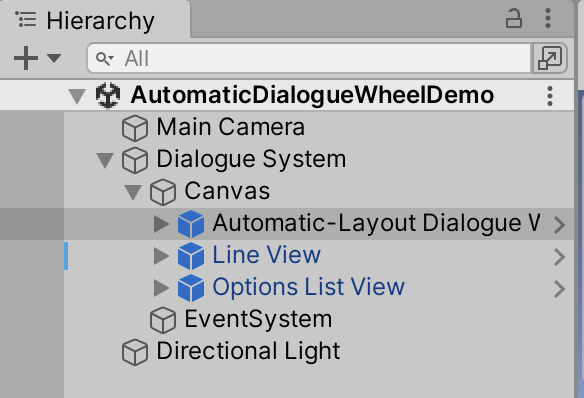
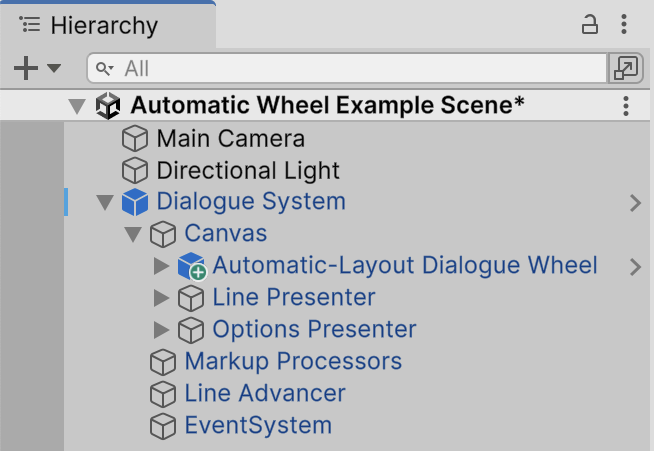
updated/redid the auto wheel docs

diff --git a/docs/add-ons/dialogue-wheel/using-auto-layout-wheel.md b/docs/add-ons/dialogue-wheel/using-auto-layout-wheel.md
@@ -6,15 +6,28 @@ description: >-
 
 # Using Auto-Layout Wheel
 
-The Automatic-Layout Dialogue Wheel provides a dialogue wheel with a simple graphical appearance, and can—theoretically—support as many options as you'd like, automatically adjusting to display them.&#x20;
+The Automatic-Layout Dialogue Wheel provides a dialogue wheel with a simple graphical appearance, and can—theoretically—support as many options as you'd like, automatically adjusting to display them.
+
+{% hint style="info" %}
+The reason we say theoretically as many options as you like is because even though the code doesn't care about the number of options, if you have too many things are gonna start looking weird.
+{% endhint %}
+
+The Automatic-Layout Dialogue Wheel works by diving up a circle into a number of regions.
+The number of regions is determined on-the-fly by the number of options that need to be displayed, the size of each region is determined by diving up the available space on the circle evenly by the number of options, so if you have three options each region will be 120 degrees wide.
+Each region then gets given a single option to show and that option is placed within the centre edge of the region, coiling around circle in a counter-clockwise fashion.
+The wheel can also have a deadzone set which is a section of the circle where options can't appear, this is mostly to ensure wheels near the bottom of the screen don't have their options cut off, but can be used for other effects.
+The deadzone is determined by a start and end angle, anything within this range is a valid spot for options.
+Anything outside of it, is not.
+The range inside the example is a start of -30 and and end of 210 degrees, meaning a wedge at the bottom is not available for options.
+The deadzone angles, the coiling direction, and angle offset of each region can be controlled and customised.
 
 ## Using the Automatic-Layout Dialogue Wheel
 
-To use the Automatic-Layout Dialogue Wheel [make sure your Unity project has the Yarn Spinner package installed](../../using-yarnspinner-with-unity/installation-and-setup.md), and the [install the Dialogue Wheel for Yarn Spinner package](installing-dialogue-wheel.md).
+To use the Automatic-Layout Dialogue Wheel [make sure your Unity project has the Yarn Spinner package installed](../../yarn-spinner-for-unity/installation-and-setup/README.md), and the [install the Dialogue Wheel for Yarn Spinner package](installing-dialogue-wheel.md).
 
-Then, create a new Dialogue Runner in your Hierarchy:
+Then, create a new Dialogue System in your Hierarchy:
 
-<figure><img src="../../.gitbook/assets/dialoguewheel1.png" alt="" width="563"><figcaption><p>Adding a new Dialogue Runner to your scene.</p></figcaption></figure>
+<figure><img src="../../.gitbook/assets/dialoguewheel1.png" alt="" width="563"><figcaption><p>Adding a new Dialogue System to your scene.</p></figcaption></figure>
 
 Then, in the Project pane, create a new Yarn Project asset:
 
@@ -93,25 +106,53 @@ Narrator: Have a nice day!
 
 </details>
 
-Back in Unity, choose the Dialogue Runner that you added to the Hierarchy, right-click it and choose Prefab -> Unpack. This will allow you to modify the contents of the (former) prefab, in order to add the Automatic-Layout Dialogue Wheel as a Dialogue View.
-
-<figure><img src="../../.gitbook/assets/dialoguewheel4.png" alt="" width="563"><figcaption><p>Unpacking the Dialogue System prefab.</p></figcaption></figure>
-
 With the Dialogue Runner selected in the Hierarchy, drag the Yarn Project that you created from the Project pane into the Yarn Project slot in the Dialogue System's Inspector:
 
 <figure><img src="../../.gitbook/assets/dialoguewheel5.png" alt="" width="563"><figcaption><p>Assigning your Yarn Project to the Dialogue System.</p></figcaption></figure>
 
 Next, locate the Automatic-Layout Dialogue Wheel prefab, supplied with this add-on, and drag it from the Project pane, so it's below the Canvas in the Hierarchy:
 
-<figure><img src="../../.gitbook/assets/dialoguewheel7.png" alt="" width="438"><figcaption><p>The Automatic-Layout Dialogue View, added below the Canvas of the unpacked Dialogue System.</p></figcaption></figure>
+<figure><img src="../../.gitbook/assets/dialoguewheel7.png" alt=""><figcaption><p>The Automatic-Layout Dialogue View, added below the Canvas of the unpacked Dialogue System.</p></figcaption></figure>
 
-Right-click on the Options List View in the Hierarchy, and choose Delete. You won't need that view, as you'll be displaying a wheel, instead of a list. To make the Dialogue System aware of the Automatic-Layout Dialogue Wheel, select it (the Dialogue System) in the Hierarchy, and drag the Automatic-Layout Dialogue View from the Hierarchy into the Element 1 slot of the Dialogue Views section in the Inspector:
+Right-click on the Options Presenter in the Hierarchy, and choose Delete. You won't need that presenter, as you'll be displaying a wheel, instead of a list. To make the Dialogue System aware of the Automatic-Layout Dialogue Wheel, select it (the Dialogue System) in the Hierarchy, and drag the Automatic-Layout Dialogue View from the Hierarchy into the Element 2 slot of the Dialogue Presenters section in the Inspector:
 
 <figure><img src="../../.gitbook/assets/dialoguewheel8.png" alt="" width="563"><figcaption><p>Adding the Automatic-Layout Dialogue Wheel to the Dialogue System.</p></figcaption></figure>
+
+Click on the Start Automatically toggle on the Dialogue Runner Inspector and from the Start Node drop down pick `Start`.
+
+<figure><img src="../../.gitbook/assets/dialoguewheel8b.png" alt=""><figcaption><p>Configuring the automatic start node.</p></figcaption></figure>
 
 If you save your scene and run it, your Automatic-Layout Dialogue Wheel should now be working!
 
 <figure><img src="../../.gitbook/assets/demo-automatic.gif" alt=""><figcaption><p>The Automatic-Layout Dialogue Wheel in action.</p></figcaption></figure>
+
+### Automatic Layout Commands
+
+There are three commands which let you adjust how the wheel works during dialogue.
+To see these in action check out the [example](dialogue-wheel-examples.md).
+
+#### Layout Direction
+
+`<<set_layout_direction wheel-name direction>>` has two parameters, the name of the wheel game object, and the direction.
+This determines which way around the wheel options should be placed, either clockwise or counter-clockwise.
+Allowed values for the `direction` parameter to place options clockwise include: `clockwise`, `sunwise`, `cw`.
+Allowed values for the `direction` parameter to place options counter-clockwise include: `counterclockwise`, `counter-clockwise`, `widdershins`, `ccw`.
+
+#### Deadzone Adjustment
+
+`<<set_option_zone wheel-name start-angle end-angle>>` has three parameters, the name of the wheel game object, and two angles for the start and end region.
+If you want to have the entire circle you would set `start-angle` to `0` and `end-angle` to `360`, if you only wanted the top half of the wheel you would set them to `0` and `180` respectively.
+For the wheel in the example the wheel can place options from -30 to 210 degrees, leaving a wedge at the bottom where options can't be placed.
+
+#### Region Offset
+
+The wheel divides up it's available space (so 360 degrees unless a deadzone is set) evenly based on how many options there are.
+If we have 180 degrees available to place options and we have three options that means each option gets 60 degrees to be placed and will be placed in the centre of that 60 degree wedge.
+Meaning we'd have one option at 30 degrees (top right), another at 90 (center), and the third at 150 degrees (top left).
+You can offset the angle to change this behaviour.
+
+`<<set_offset_angle wheel-name angle>>` has two parameters, the name of the wheel game object, and the offset angle.
+Changing this will rotate the option regions by the `angle` given.
 
 ## Customising the Automatic-Layout Dialogue Wheel
 
@@ -135,7 +176,7 @@ Here, on the Wheel Graphic component, you can customise a variety of things, suc
 
 ### Customising the Options
 
-To customise the way each option is displayed around the wheel, select the Automatict Wheel Option View under Automatic-Layout Dialogue Wheel prefab:
+To customise the way each option is displayed around the wheel, select the Automatic Wheel Option View under Automatic-Layout Dialogue Wheel prefab:
 
 <figure><img src="../../.gitbook/assets/dialoguewheel12.png" alt="" width="515"><figcaption><p>The Automatic Wheel Option View selected.</p></figcaption></figure>
 
@@ -165,5 +206,24 @@ For example, if you wanted to highlight selected options in green, and crossfade
 Which would result in something like this:
 
 <figure><img src="../../.gitbook/assets/custom-view.gif" alt="" width="563"><figcaption><p>The customised options in action.</p></figcaption></figure>
+
+### Customising the Option Placement
+
+The Inspector for the wheel has an in-editor visualiser to help you see where options will end up placed around the circle based on your settings.
+Here you can control the number of regions being previewed, see the effect of changing the start and end angles for the deadzone, and change the region offset angles.
+
+<figure><img src="../../.gitbook/assets/dwi1.png" alt=""><figcaption><p>The default wheel settings and their preview.</p></figcaption></figure>
+
+If we wanted the entire wheel to be in use we could change the start and end angles.
+
+<figure><img src="../../.gitbook/assets/dwi2.png" alt=""><figcaption><p>The wheel now previewing two regions across the entire .</p></figcaption></figure>
+
+If we were curious to see the regions if we had five options.
+
+<figure><img src="../../.gitbook/assets/dwi3.png" alt=""><figcaption><p>The wheel previewing five options.</p></figcaption></figure>
+
+Or perhaps we wanted the first one at the top, so change the offset angle for the regions.
+
+<figure><img src="../../.gitbook/assets/dwi4.png" alt=""><figcaption><p>The wheel with a 54 degree angle offset.</p></figcaption></figure>
 
 And that's everything you need to know to use the Automatic-Layout Dialogue Wheel! Review the [Dialogue Wheel Examples](dialogue-wheel-examples.md) for more.
